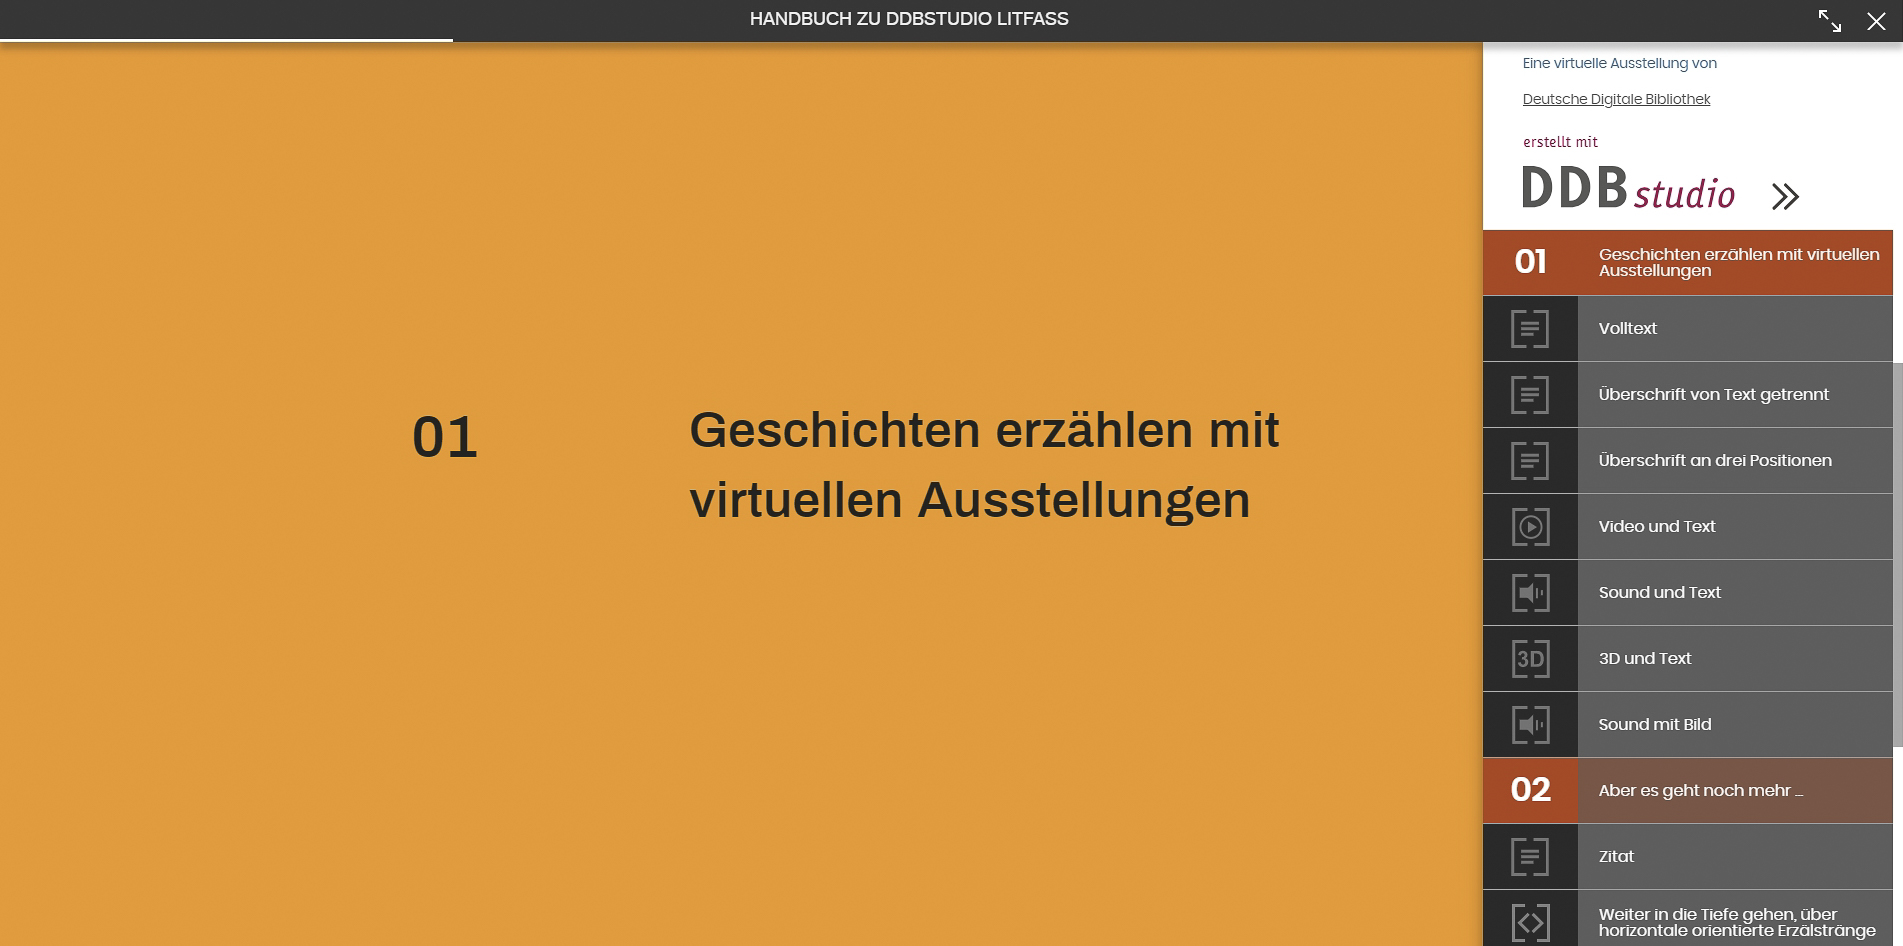
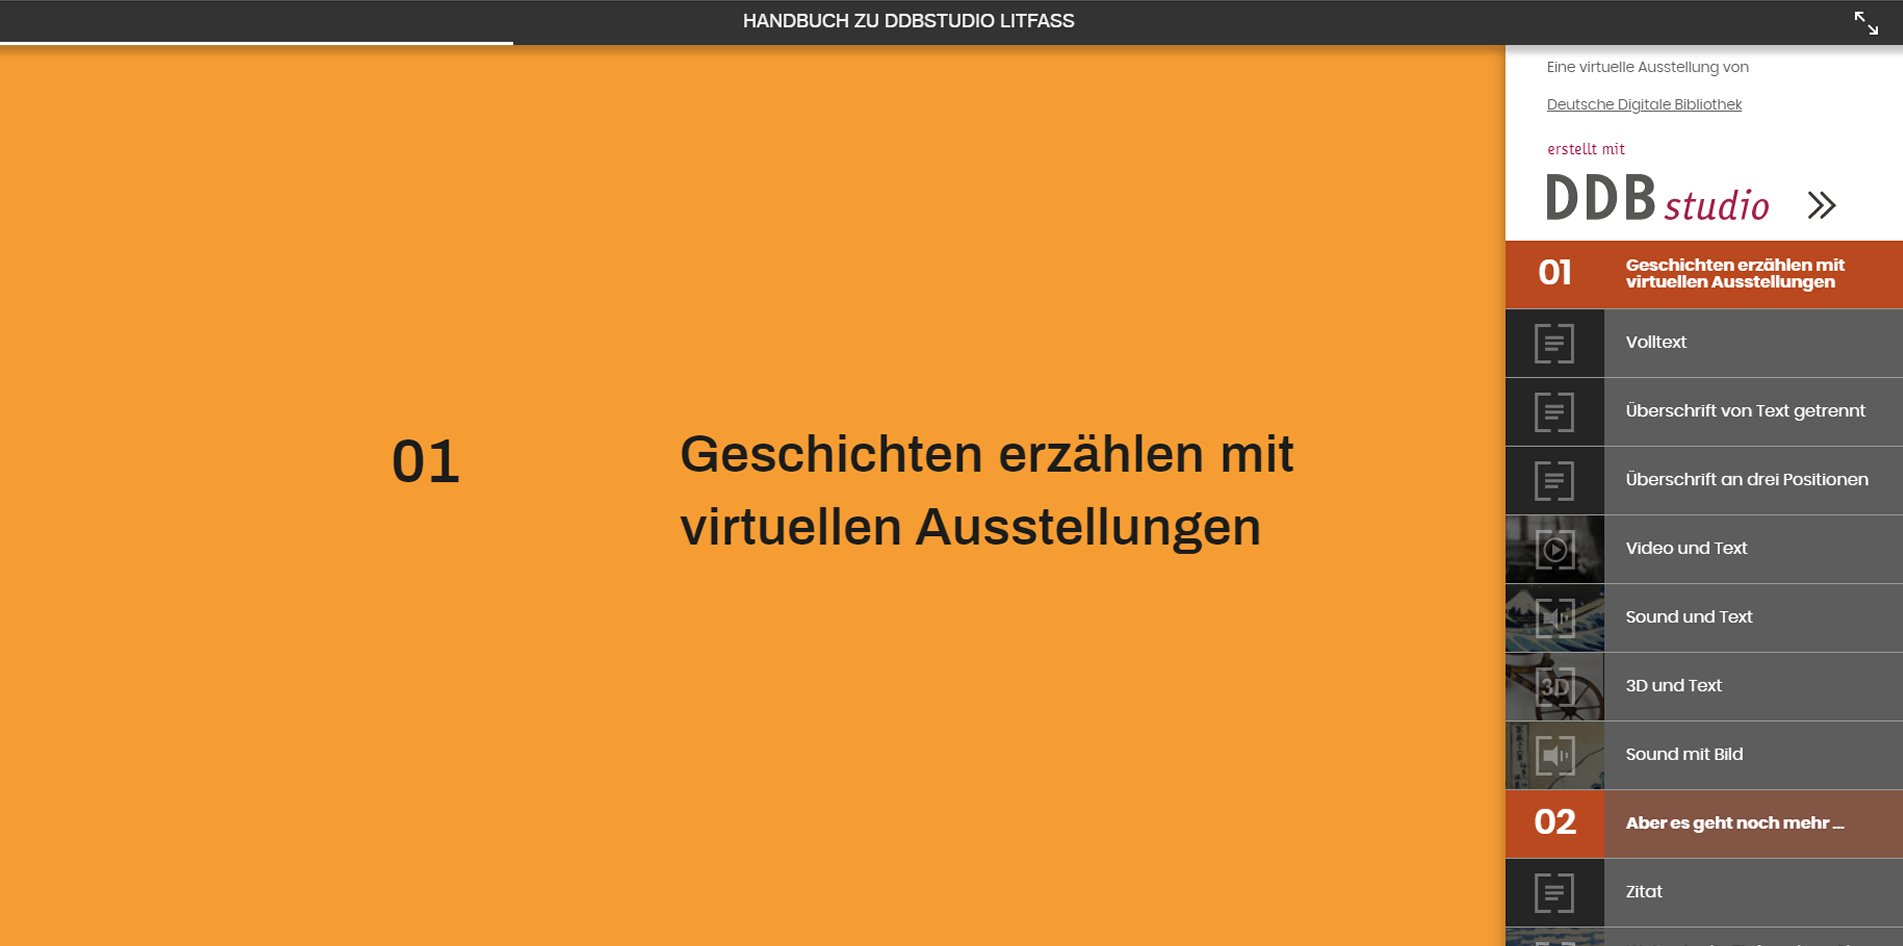
text edits frontend.md, new Screenshot A-1-5 with navi thumbnails

Changed region(s): [[0.0, 0.0, 1.0, 1.0], [0.341, 0.4292, 0.6821, 0.5825], [0.186, 0.4292, 0.248, 0.5211]]

diff --git a/docs/frontend.md b/docs/frontend.md
@@ -6,34 +6,34 @@ Bevor wir Ihnen die Bedienung der Redaktionsoberfläche erläutern, mit der Sie 
 
 Die Ausstellung beginnt mit einer Startseite, die Titel, Untertitel und die beteiligte(n) Institution(en) präsentiert.
 
-!![Abb. A.1-1 - Startseite der Ausstellung][A-1_1]
+!![Abb. A.1-1 – Startseite der Ausstellung][A-1_1]
 
 #### Die Ausstellungsseiten
 
-Durch Scrollen oder einen Klick auf das Pfeilsymbol gelangt man auf die weiteren Seiten der Ausstellung. Das Ausstellungstool ist so programmiert, dass die Seiten ‚einrasten‘, also bildschirmfüllend dargestellt werden.
+Durch Scrollen oder einen Klick auf das Pfeilsymbol gelangt man auf die weiteren Seiten der Ausstellung. Das Ausstellungs-Tool ist so programmiert, dass die Seiten ‚einrasten‘, also bildschirmfüllend dargestellt werden.
 
-!![Abb. A.1-2 - eine Seite der Ausstellung (hier: Text mit Bild)][A-1_2]
+!![Abb. A.1-2 – eine Seite der Ausstellung (hier: Text und Objekt)][A-1_2]
 
 Das hier gezeigte Layout-Schema „Text und Objekt“ ist sicherlich in vielen Kontexten einsetzbar, DDBstudio bietet Ihnen aber eine ganze Palette weiterer Möglichkeiten, Medien (Bilder, Videos, Audio-Aufnahmen, 3D-Objekte) mit und ohne begleitende Texte zu präsentieren und die Folge der Objekte durch Zwischentexte zu gliedern. Sie werden in Abschnitt [$QV] ausführlich vorgestellt.
 
-!![Abb. A.1-3 - ein Zwischentext mit seitlicher Überschrift][A-1_3]
-
-#### Informationen über die Ausstellung und Rechtliches
-
-Am Ende der Ausstellung gelangen die BesucherInnen zu einer Folge von Seiten, die sich in der Gestaltung von den eigentlichen, die Inhalte präsentierenden Seiten abheben: Eine „Teamseite“, auf der die Mitwirkenden mit entsprechenden Links und Logos aufgeführt sind, sowie die Seiten „Impressum“ und „Datenschutzerklärung“.
-
-!![Abb. A.1-4 - die „Teamseite“ der Musterausstellung][A-1_4]
+!![Abb. A.1-3 – ein Zwischentext mit seitlicher Überschrift][A-1_3]
 
 #### Ausstellungsnavigation
 
 Neben der intuitiven Bewegung durch die Ausstellung mittels Scrollen (oder Wischen bei Touch-Geräten) können die BesucherInnen die Inhalte der Ausstellung über eine Navigation gezielt ansteuern. Sie wird über das Hamburger-Menü (drei Streifen) in der Kopfleiste oben rechts aufgerufen.
 
-!![Abb. A.1-5 - ausgeklappte Ausstellungsnavigation][A-1_5]
+!![Abb. A.1-4 – ausgeklappte Ausstellungsnavigation][A-1_4]
+
+#### Informationen über die Ausstellung und Rechtliches
+
+Am Ende der Ausstellung gelangen die BesucherInnen zu einer Folge von Seiten, die sich in der Gestaltung von den eigentlichen, die Inhalte präsentierenden Seiten abheben: Eine „Teamseite“, auf der die Mitwirkenden mit entsprechenden Links und Logos aufgeführt sind, und die Seite „Impressum“.
+
+!![Abb. A.1-5 – die „Teamseite“ der Musterausstellung][A-1_5]
 
 In ausgeklapptem Zustand bietet die Navigation eine Liste aller Seiten der Ausstellung. Die Symbole links geben Auskunft über den Charakter der auf der betreffenden Seite eingebundenen Medien, daneben erscheint der Seitentitel. Durch Zwischentitel-Seiten können Sie bei längeren Ausstellungen die Abfolge in Sektionen unterteilen.
 
-[A-1_1]: img/A-1_1.jpg "Abb. A.1-1 - Alt-Text „in Anführungszeichen“"
-[A-1_2]: img/A-1_2.jpg "Abb. A.1-2 - eine Seite der Ausstellung (hier: Text mit Bild)"
-[A-1_3]: img/A-1_3.jpg "Abb. A.1-3 - ein Zwischentext mit seitlicher Überschrift"
-[A-1_4]: img/A-1_4.jpg "Abb. A.1-4 - die „Teamseite“ der Musterausstellung"
-[A-1_5]: img/A-1_5.jpg "Abb. A.1-5 - ausgeklappte Ausstellungsnavigation"
+[A-1_1]: img/A-1_1.jpg "Abb. A.1-1 – Alt-Text „in Anführungszeichen“"
+[A-1_2]: img/A-1_2.jpg "Abb. A.1-2 – eine Seite der Ausstellung (hier: Text mit Objekt)"
+[A-1_3]: img/A-1_3.jpg "Abb. A.1-3 – ein Zwischentext mit seitlicher Überschrift"
+[A-1_4]: img/A-1_4.jpg "Abb. A.1-5 – ausgeklappte Ausstellungsnavigation"
+[A-1_5]: img/A-1_5.jpg "Abb. A.1-4 – die „Teamseite“ der Musterausstellung"
